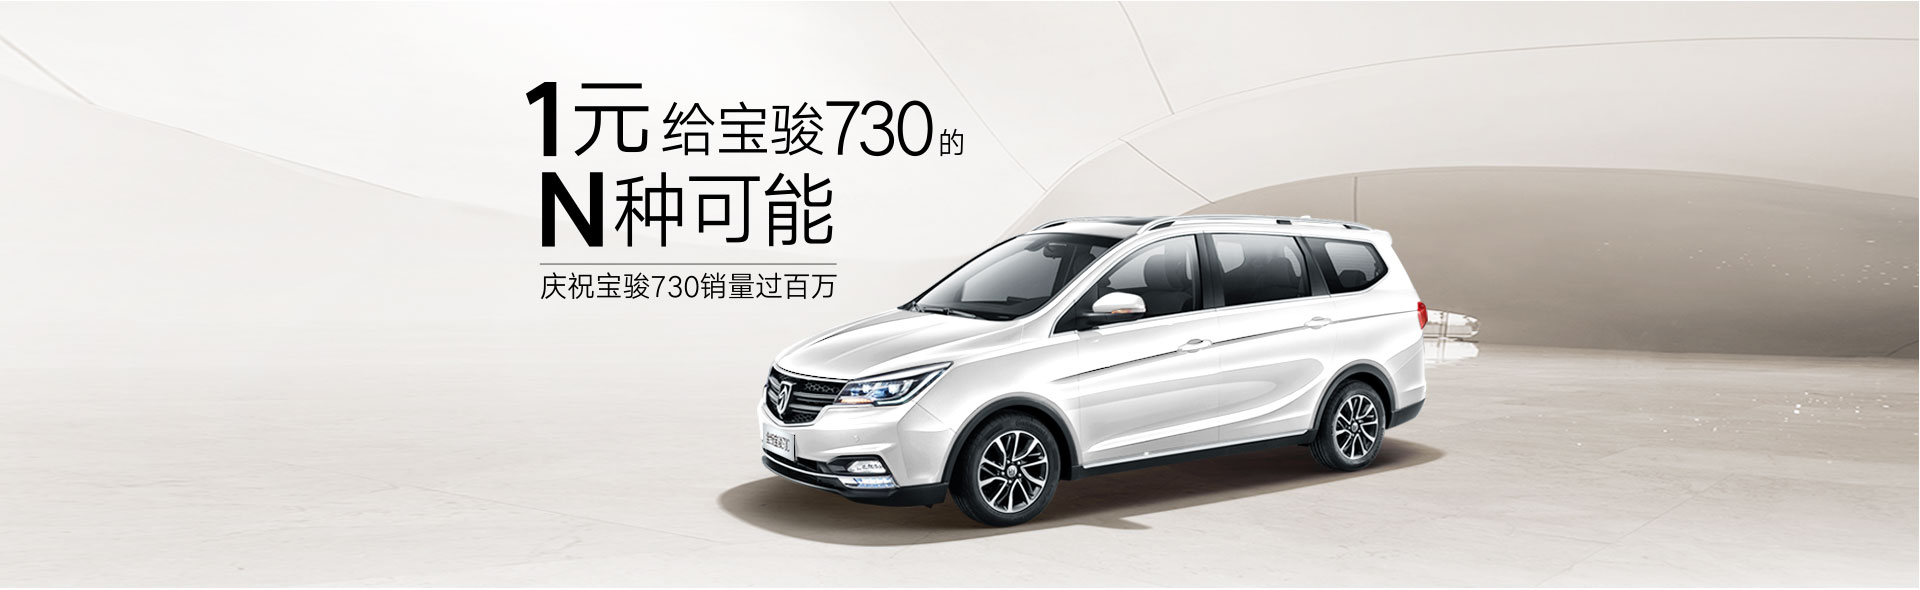
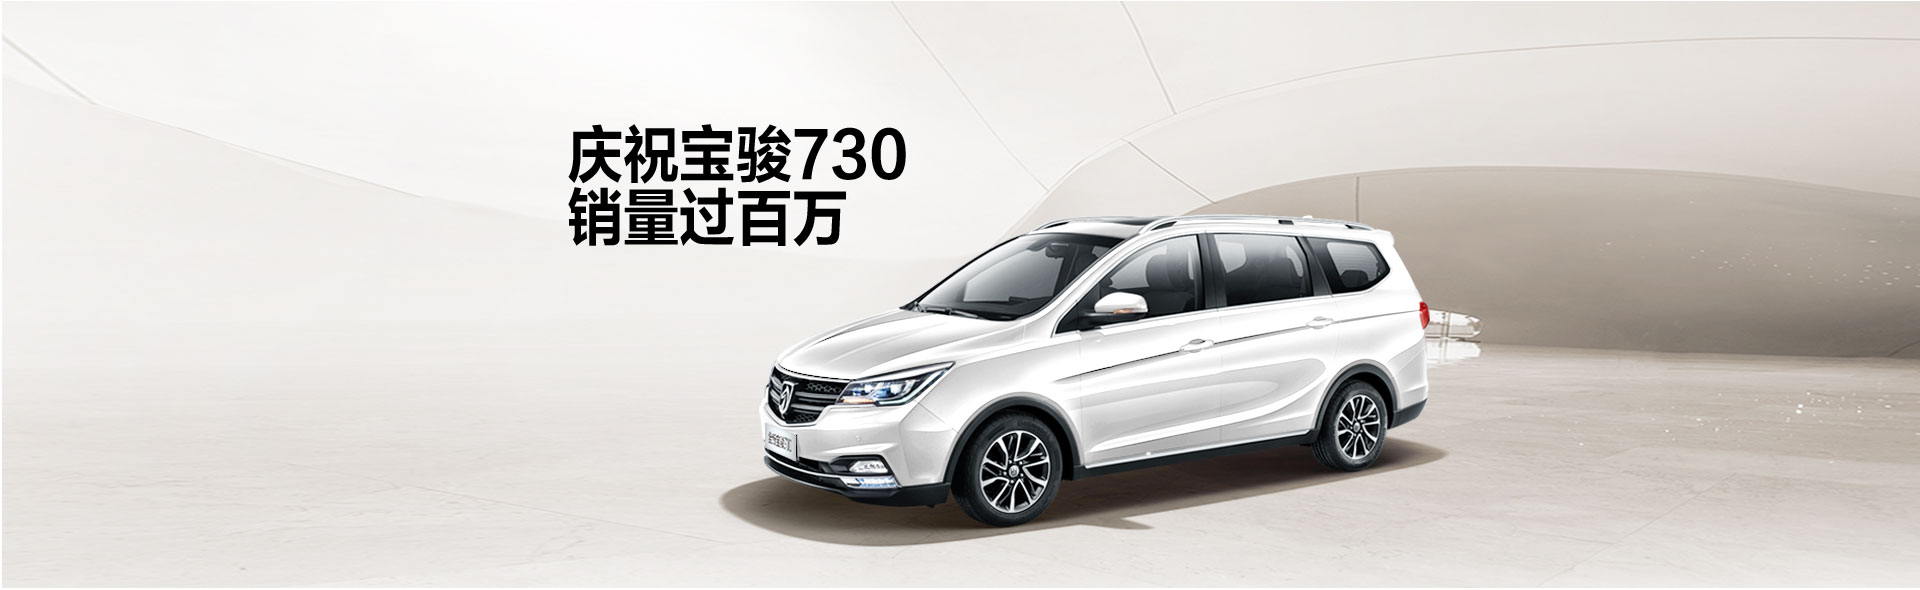
修改

diff --git a/prev/pc/index.html b/prev/pc/index.html
@@ -68,12 +68,12 @@
         </div>
     </div>
     <!-- 汽车之家 -->
-    <div class="context part_3" id="part_3">
+    <!--<div class="context part_3" id="part_3">
         <div class="content">
             <div class="title"><img src="images/part_3_title_15.png"></div>
-            <!-- <div class="btn goBuy" index="2"><img src="images/part_3_btn_03.png" alt=""></div> -->
+            <!-- <div class="btn goBuy" index="2"><img src="images/part_3_btn_03.png" alt=""></div>
         </div>
-    </div>
+    </div>-->
     <!-- 易车 -->
     <!-- <div class="context part_4" id="part_4">
         <div class="content">
@@ -97,7 +97,7 @@
     </div> -->
     <div class="context part_6" id="part_6">
         <div class="content">
-            <div class="title"><img src="images/part_6_title_03.png" alt=""></div>
+            <div class="title"><img src="images/part_6_title_031.png" alt=""></div>
             <div class="swiper-container">
                 <div class="swiper-wrapper">
                     <div class="swiper-slide">

diff --git a/prev/wap/css/common.css b/prev/wap/css/common.css
@@ -182,8 +182,8 @@
 }
 #part_3{
     width: 7.5rem;
-    height: 10.02rem;
-    background: url("../images/part_3_bg_021.jpg");
+    height: 5.84rem;
+    background: url("../images/part_3_bg_02.jpg");
     background-size:100% 100%;
     position: relative;
 }
@@ -192,6 +192,7 @@
     margin-top: -0.47rem;
     width: 3.28rem;
     margin-left: 0.53rem;
+    visibility:hidden;
 }
 #part_3 .goBuy{
     width: 2.4rem;
@@ -297,7 +298,7 @@
     width: 6.08rem;
     /*margin:0 auto;*/
     font-size: 0.16rem;
-    margin-top: 4.3rem;
+    margin-top:-0.2rem;
     overflow: hidden;
     margin-left: 1rem;
 }

diff --git a/prev/pc/css/common.css b/prev/pc/css/common.css
@@ -26,6 +26,10 @@ body .pc.container .context .content{
     line-height: 18px;
     text-align: center;
 }
+#part_6{
+    height:720px;
+    background: url(../images/part6_bg.jpg) center no-repeat;
+}
 #part_6 .prev{
     float: left;
     cursor: pointer;
@@ -42,10 +46,6 @@ body .pc.container .context .content{
 #part_6 .swiper-container .swiper-slide{
     height: 423px;
     width: 744px;
-}
-#part_6{
-    height:720px;
-    background: none;
 }
 #part_6 .title{
     width:289px;
